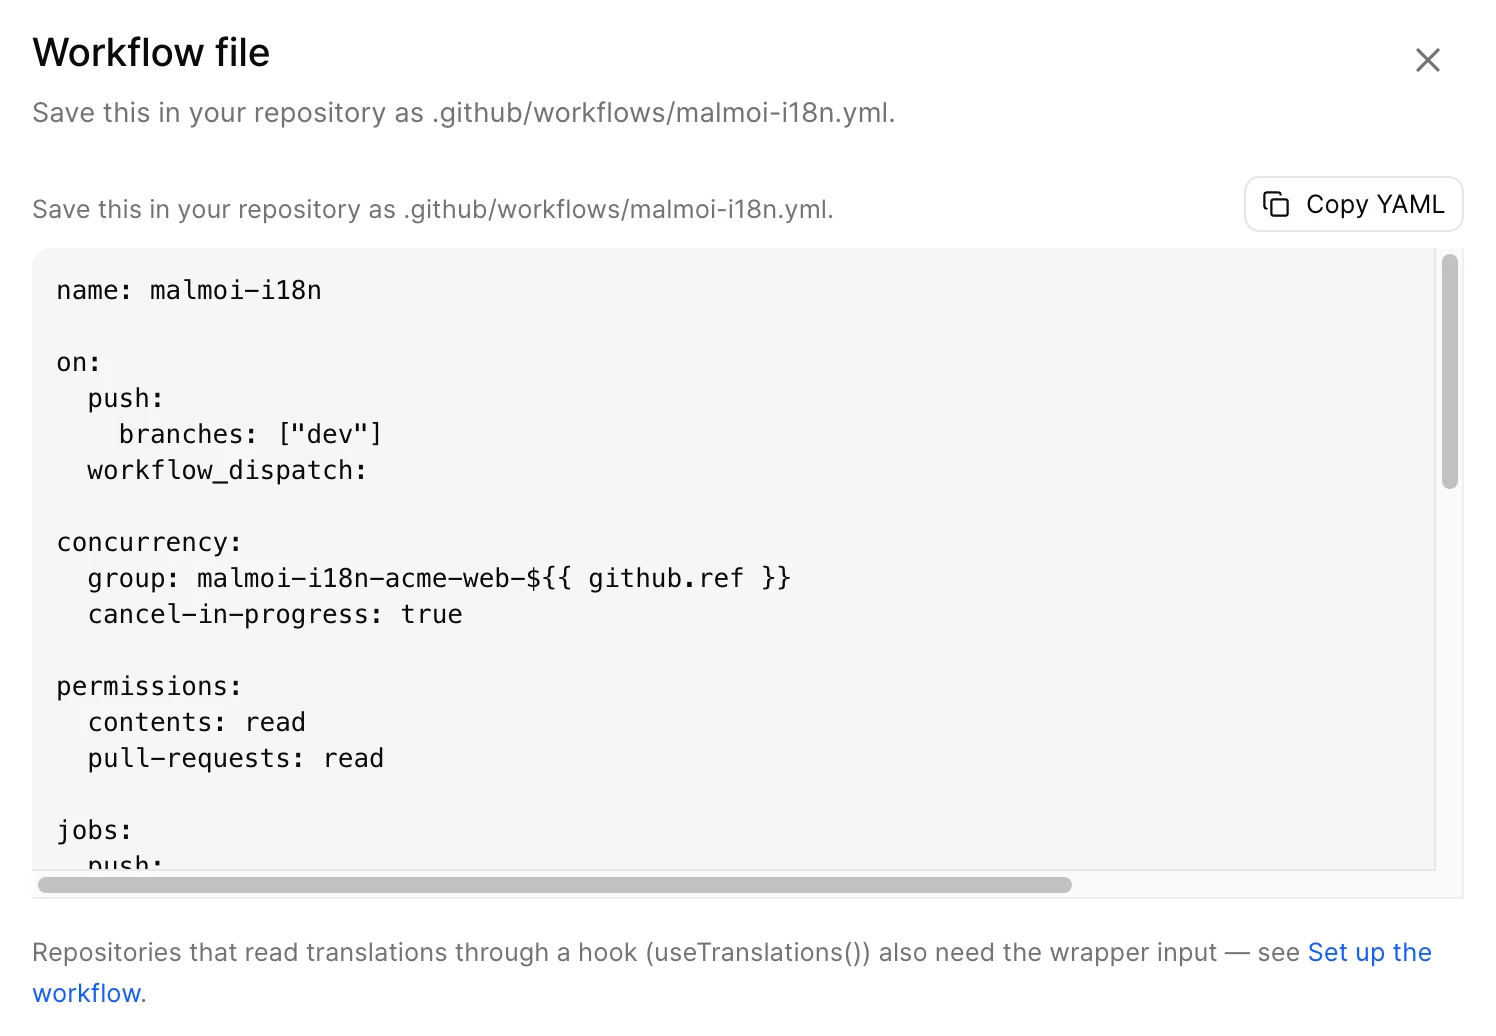
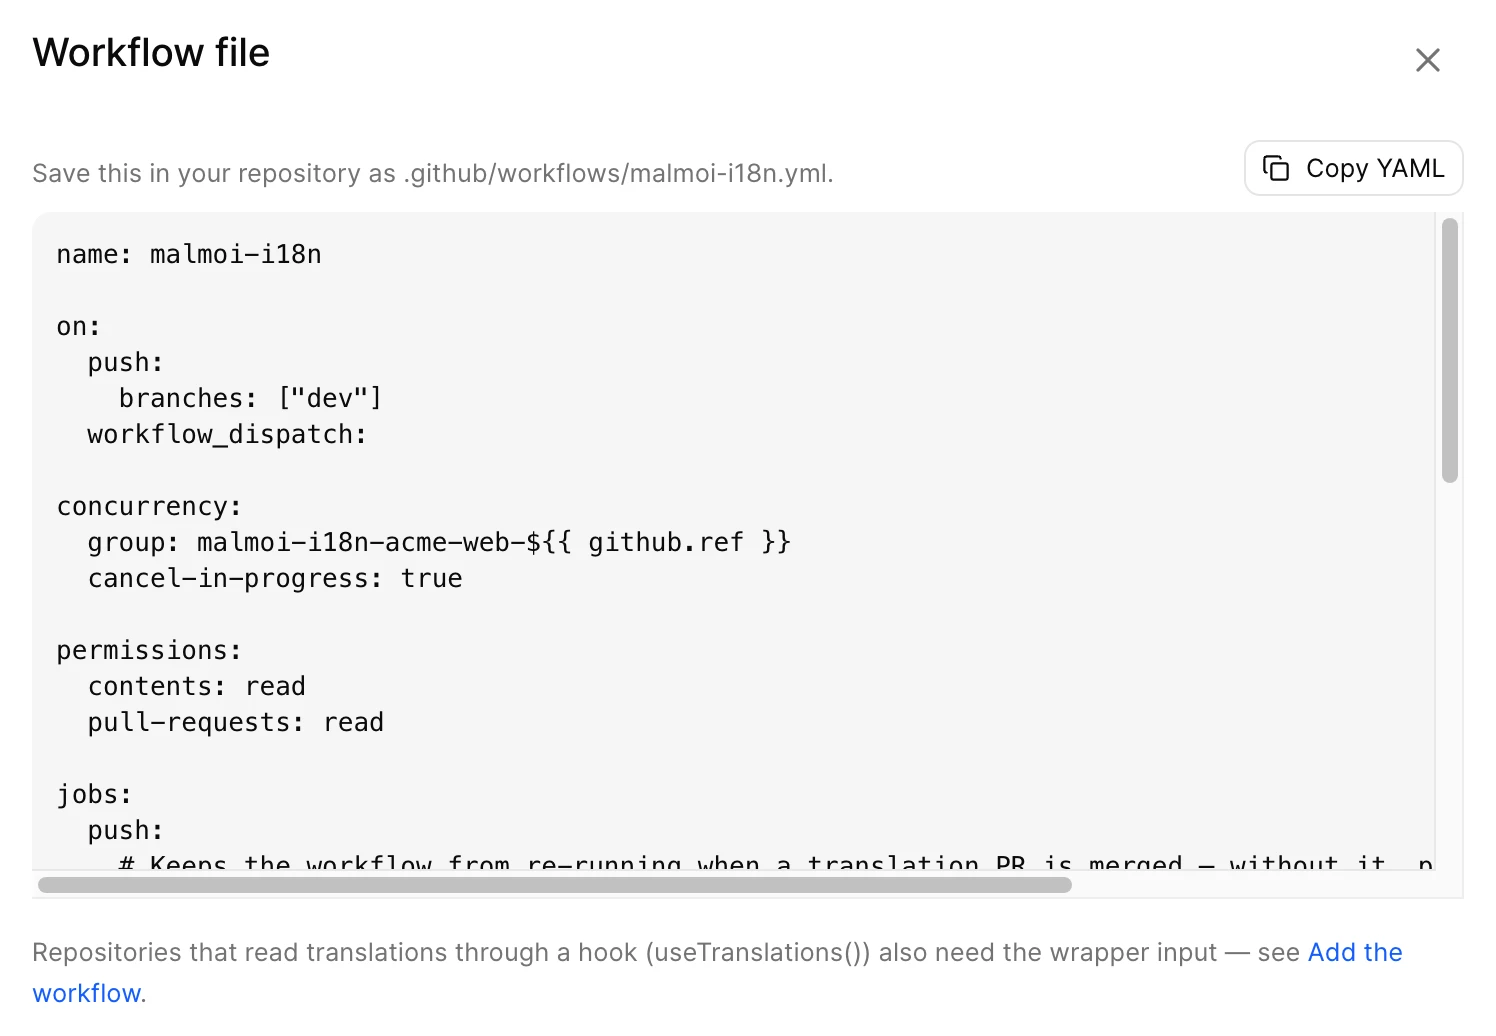
docs(guide): reshoot workflow modal after #120
Refs #120

diff --git a/guide/SHOOTING.md b/guide/SHOOTING.md
@@ -63,7 +63,7 @@
 | 에셋 | 소스 | blob | 치수 |
 | --- | --- | --- | --- |
 | /guide/push-token-secret.webp | lib/onboarding/workflow.ts | 83a27a21602a5499990ed7d0a0149c9bd4391eb4 | 1672x876 |
-| /guide/workflow-file.webp | components/settings/ci-card.tsx, components/onboarding/workflow-block.tsx, lib/onboarding/workflow.ts | a2a262f34608ceefb15e81d9f1fa7748337c9cf0, e099fcb70b6fca21b04b07c69217a0b2a0018f9e, 83a27a21602a5499990ed7d0a0149c9bd4391eb4 | 1496x1036 |
+| /guide/workflow-file.webp | components/settings/ci-card.tsx, components/onboarding/workflow-block.tsx, lib/onboarding/workflow.ts | a51dd7329e19754536eec21e9165a067174e61c2, e099fcb70b6fca21b04b07c69217a0b2a0018f9e, 83a27a21602a5499990ed7d0a0149c9bd4391eb4 | 1496x1036 |
 | /guide/actions-policy.webp | lib/onboarding/workflow.ts, .github/actions/malmoi-i18n-push/action.yml | 83a27a21602a5499990ed7d0a0149c9bd4391eb4, 53c5d7d7e9b47a639698cddb6e35c83c88888915 | 1672x1044 |
 | /guide/translation-editor.webp | components/translations/workspace/key-list.tsx, components/translations/workspace/locale-panel.tsx | 2b76bc12d1bef23dc6db41b0877ce19bd6f4c52b, 017cfe5e337051262ffdd18f1c9bcc14962c1169 | 1700x1616 |
 | /guide/publish-preview.webp | components/publish-button.tsx, lib/publish/preview.ts | 0b34325ec125423306f9a2bd15c71a02d8e0c389, 53a5195bd22c62e1f778cca4f7c3bb46d5f0515c | 1496x1160 |
@@ -81,3 +81,4 @@
 - ④ `Malmoi is ready`는 벽(위)이라 Settings 모달로 대신했다.
 - Publish 미리보기 촬영에 쓴 편집(`common.cancel` fr)은 값을 원래대로 다시 저장했지만 **Revert to last sent**가 꺼져 있어 미전달 표시가 남았다 — 그 뒤 미리보기가 "Close pull request #8"을 제안한다. 실행하지 않았다.
 - GitHub 정책 컷의 옵션 문구 `Allow OWNER, and select non-OWNER, actions and reusable workflows`를 실물(조직 소유 리포)에서 확인했다.
+- 2026-09-27 `/guide/workflow-file.webp` 재촬영 — #120이 모달의 중복 문장(`Save this in your repository as …`)을 지우고 힌트 링크를 `Add the workflow`로 바꿨다.
